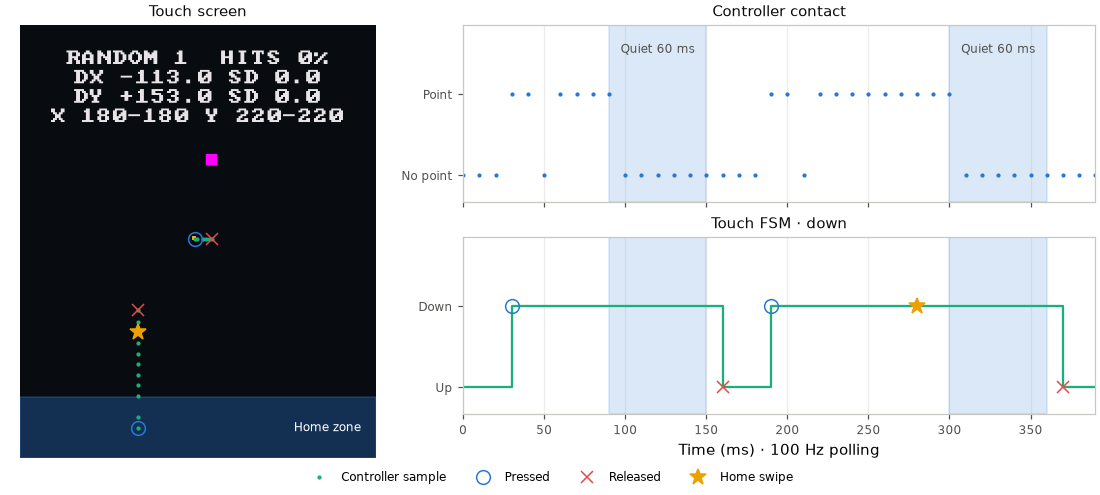
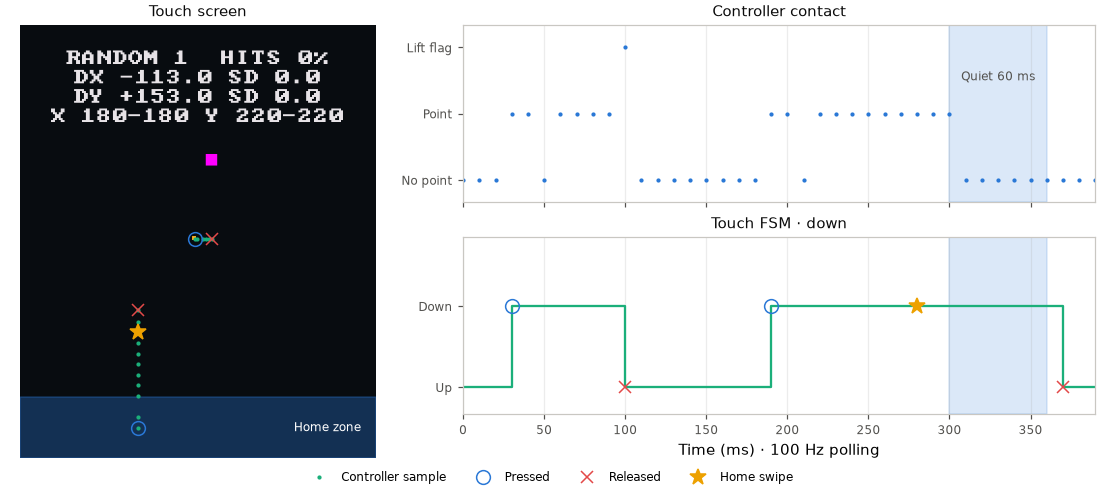
input: show flagged and quiet touch releases

diff --git a/launcher/tools/input/contact_figures.py b/launcher/tools/input/contact_figures.py
@@ -25,6 +25,7 @@ WINDOW_ALPHA = 0.17
 TRACE_LIMITS = (-0.33, 1.85)
 ANNOTATION_HEIGHT = 1.55
 CONTACT_DOT_SIZE = 3.5
+LIFT_LEVEL = 2
 
 
 def event_markers(axis, x, y, events, styles):
@@ -50,7 +51,7 @@ def binary_traces(axes, time, raw, down, titles, raw_labels, xlabel, *, raw_samp
 
 
 def touch_figure(data, us_per_ms, render, out):
-    us, contact, down, x, y, *flags = np.array(data["rows"]).T
+    us, contact, lifted, down, x, y, *flags = np.array(data["rows"]).T
     events = [flag.astype(bool) for flag in flags]
     time = us / us_per_ms
     width, height, zone = (data[key] for key in ("width", "height", "zone"))
@@ -74,14 +75,17 @@ def touch_figure(data, us_per_ms, render, out):
     style_axes(panel, "Touch screen")
     panel.set_axis_off()
 
-    binary_traces((raw, fsm), time, contact, down, ("Controller contact", "Touch FSM · down"), ("No point", "Point"),
+    raw_samples = np.where(lifted, LIFT_LEVEL, contact)
+    binary_traces((raw, fsm), time, raw_samples, down, ("Controller contact", "Touch FSM · down"), ("No point", "Point"),
                   f"Time (ms) · {data['poll_hz']} Hz polling", raw_samples=True)
+    raw.set(yticks=(0, 1, LIFT_LEVEL), yticklabels=("No point", "Point", "Lift flag"),
+            ylim=(TRACE_LIMITS[0], LIFT_LEVEL - TRACE_LIMITS[0]))
     quiet = data["quiet_us"] / us_per_ms
     last_contact = 0
-    for t, have_point, released in zip(time, contact, events[1]):
+    for t, have_point, lift_flag, released in zip(time, contact, lifted, events[1]):
         if have_point:
             last_contact = t
-        if released:
+        if released and not lift_flag:
             for axis in (raw, fsm):
                 axis.axvspan(last_contact, last_contact + quiet, color=SLOTS[0], alpha=WINDOW_ALPHA)
             raw.text(last_contact + quiet / 2, ANNOTATION_HEIGHT, f"Quiet {quiet:g} ms", ha="center",
@@ -120,18 +124,24 @@ def button_figure(data, us_per_ms, out):
 def main():
     parser = argparse.ArgumentParser(description=__doc__)
     parser.add_argument("--cc", default="cc")
-    parser.add_argument("--random-tap", type=Path, required=True)
-    parser.add_argument("--tap", metavar="X,Y", required=True, help="tap point in screen pixels")
-    parser.add_argument("--touch", type=Path, required=True)
-    parser.add_argument("--button", type=Path, required=True)
+    parser.add_argument("--random-tap", type=Path)
+    parser.add_argument("--tap", metavar="X,Y", help="tap point in screen pixels")
+    output = parser.add_mutually_exclusive_group(required=True)
+    output.add_argument("--touch", type=Path)
+    output.add_argument("--button", type=Path)
     args = parser.parse_args()
+    if args.button:
+        data = run_probe(args.cc, SOURCES)
+        button_figure(data["trace"], data["us_per_ms"], args.button)
+        return
+    if args.random_tap is None or args.tap is None:
+        parser.error("--touch requires --random-tap and --tap")
     try:
         x, y = map(int, args.tap.split(","))
     except ValueError:
         parser.error("--tap must be two integers separated by a comma")
     data = run_probe(args.cc, SOURCES, x, y)
-    touch_figure(data["touch"], data["us_per_ms"], args.random_tap, args.touch)
-    button_figure(data["button"], data["us_per_ms"], args.button)
+    touch_figure(data["trace"], data["us_per_ms"], args.random_tap, args.touch)
 
 
 if __name__ == "__main__":

diff --git a/launcher/tools/input/contact_figures_probe.c b/launcher/tools/input/contact_figures_probe.c
@@ -34,6 +34,7 @@ touch_trace(vec2i_t tap) {
         const int swipe_poll = poll - swipe_start;
         const bool tapping = tap_poll >= 0 && tap_poll < TAP_POLLS && tap_poll != DROPOUT_POLL;
         const bool dragging = swipe_poll >= 0 && swipe_poll < SWIPE_POLLS && swipe_poll != DROPOUT_POLL;
+        const bool lifted = tap_poll == TAP_POLLS;
         vec2i_t point = vec2i_zero();
         if (tapping) {
             point = (vec2i_t){tap.x + tap_poll * TAP_STEP_PX, tap.y};
@@ -43,12 +44,12 @@ touch_trace(vec2i_t tap) {
                               GFX_HEIGHT - GESTURE_HOME_ZONE_DEPTH / 2 - swipe_poll * travel / (SWIPE_POLLS - 1)};
         }
         const unsigned us = poll * TOUCH_POLL_US;
-        touch_fsm_update(&fsm, tapping || dragging, point, us);
+        touch_fsm_update(&fsm, tapping || dragging, lifted, point, us);
         input_t sample = {0};
         touch_fsm_take(&fsm, &sample);
         const bool swipe = !swiped && gesture_is_home_swipe(&sample, GESTURE_EDGE_BOTTOM, GFX_WIDTH, GFX_HEIGHT);
         swiped |= swipe;
-        printf("%s[%u,%d,%d,%d,%d,%d,%d,%d]", poll == 0 ? "" : ",", us, tapping || dragging, sample.down,
+        printf("%s[%u,%d,%d,%d,%d,%d,%d,%d,%d]", poll == 0 ? "" : ",", us, tapping || dragging, lifted, sample.down,
                sample.point.x, sample.point.y, sample.pressed, sample.released, swipe);
     }
     printf("]}");
@@ -92,8 +93,14 @@ button_trace(void) {
 
 int
 main(int argc, char** argv) {
+    if (argc == 1) {
+        printf("{\"us_per_ms\":%u,\"trace\":", MATH_US_PER_MS);
+        button_trace();
+        puts("}");
+        return EXIT_SUCCESS;
+    }
     if (argc != 3) {
-        fputs("usage: contact_figures_probe X Y\n", stderr);
+        fputs("usage: contact_figures_probe [X Y]\n", stderr);
         return EXIT_FAILURE;
     }
     char* x_end;
@@ -105,10 +112,8 @@ main(int argc, char** argv) {
         fputs("tap coordinates must be decimal pixels within the screen\n", stderr);
         return EXIT_FAILURE;
     }
-    printf("{\"us_per_ms\":%u,\"touch\":", MATH_US_PER_MS);
+    printf("{\"us_per_ms\":%u,\"trace\":", MATH_US_PER_MS);
     touch_trace((vec2i_t){(int)x, (int)y});
-    printf(",\"button\":");
-    button_trace();
     puts("}");
     return 0;
 }

diff --git a/docs/input/Touch.md b/docs/input/Touch.md
@@ -33,7 +33,7 @@ touch_example(touch_example_t* s, const input_t* input) {
 
 ![Touch sample positions and the timeline of a scripted tap and home swipe](../images/input/touch-trace.png)
 
-A one-poll dropout leaves the touch down; it releases only after the quiet interval with no sample, and the home swipe fires while the drag is still in progress.
+A one-poll dropout leaves the touch down. The tap releases immediately on the lift flag, while the drag triggers the home swipe before releasing after the quiet interval.
 
 | Rule | Owner |
 |---|---|

diff --git a/docs/tools/Figures.md b/docs/tools/Figures.md
@@ -12,7 +12,7 @@ is stale, so rerun it after changing an image or the pages that show one.
 |---|---|---|---|
 | [anim](#anim) | 5 | 0 | 0 |
 | [audio](#audio) | 40 | 0 | 0 |
-| [input](#input) | 13 | 0 | 0 |
+| [input](#input) | 15 | 0 | 0 |
 | [kinematics](#kinematics) | 8 | 4 | 0 |
 | [math](#math) | 25 | 25 | 0 |
 | [overview](#overview) | 49 | 0 | 0 |
